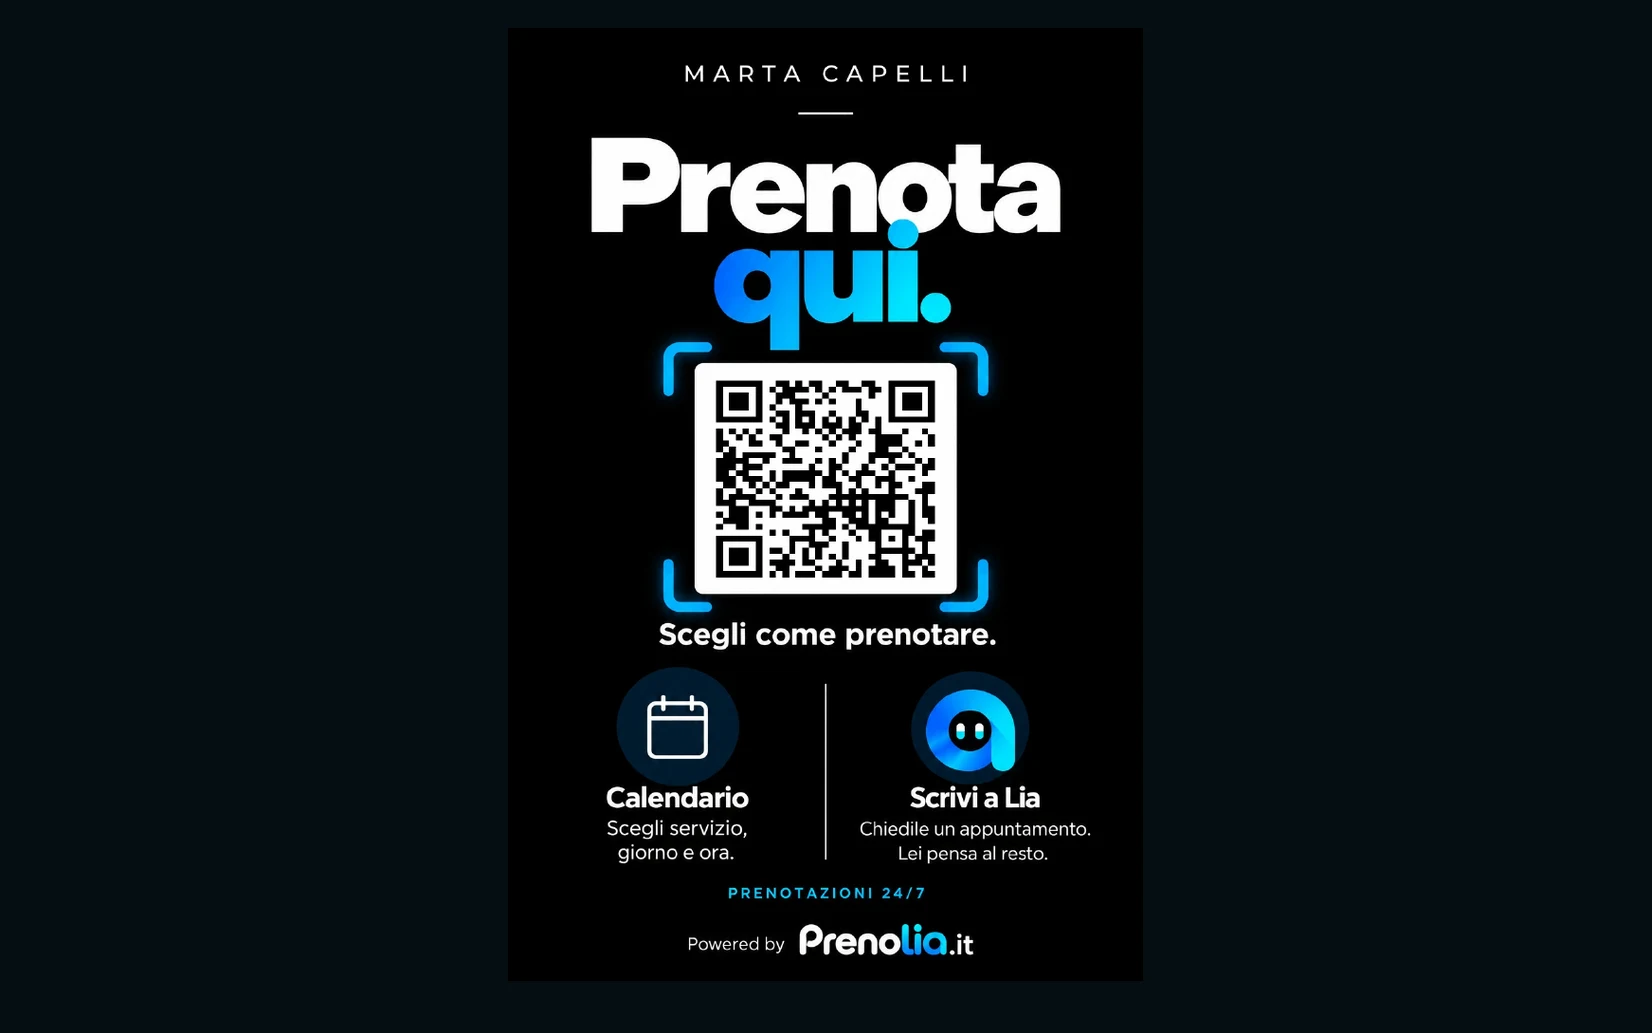
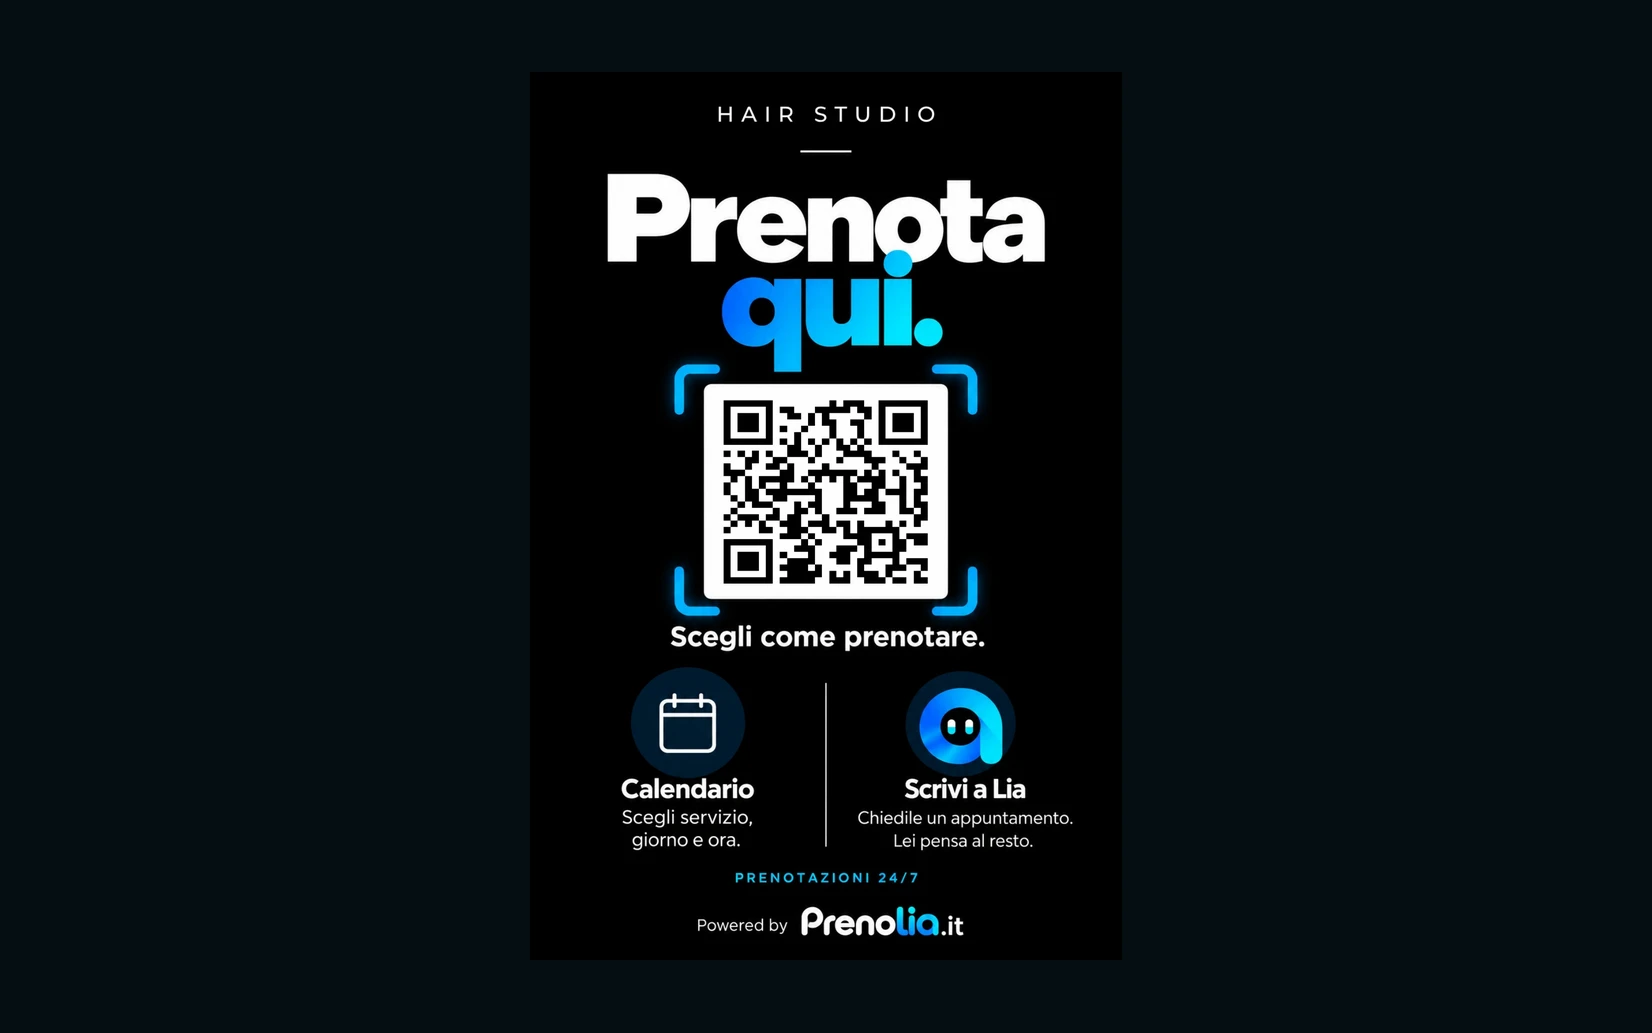
Tutorial: Hair Studio, sequenza desktop più fluida (QR in cima, menu, finestra, locandina), tocco visibile su smartphone
Claude-Session: https://claude.ai/code/session_01MPSQ5jCZct4PB5C3Pt8sNX

Changed region(s): [[0.3396, 0.1239, 0.6483, 0.9293], [0.4013, 0.062, 0.5866, 0.1239]]

diff --git a/public/provahtml/tutorial.html b/public/provahtml/tutorial.html
@@ -104,20 +104,21 @@
 @keyframes tupop{0%{transform:scale(.88)}60%{transform:scale(1.08)}100%{transform:none}}
 #tutorial .tu-ph{position:relative;width:100%;aspect-ratio:390/844;border-radius:24px;border:3px solid #0a1114;box-shadow:0 0 0 1px rgba(255,255,255,.18),0 40px 70px rgba(0,0,0,.7);background:#050608;overflow:hidden;container-type:inline-size}
 #tutorial .tu-ph img,#tutorial .tu-ph video,#tutorial .tu-scr img{position:absolute;inset:0;width:100%;height:100%;object-fit:cover;display:block}
-#tutorial img.f{opacity:0;transform:scale(1.07);transition:opacity .45s ease,transform .45s ease}
-#tutorial img.f.on{opacity:1;transform:none;transition:opacity .6s ease .1s,transform .6s ease .1s}
-#tutorial img.f.out{opacity:0;transform:scale(.95);transition:opacity .45s ease,transform .45s ease}
+#tutorial img.f{opacity:0;transform:none;z-index:0;transition:opacity .7s ease}
+#tutorial img.f.on{opacity:1;z-index:2;transition:opacity .7s ease}
+#tutorial img.f.out{opacity:1;z-index:1;transition:opacity 0s linear .75s}
 #tutorial .tu-br{border-radius:14px;border:1px solid #3a525a;background:#050608;overflow:hidden;box-shadow:0 0 0 1px rgba(255,255,255,.12),0 40px 70px rgba(0,0,0,.7)}
 #tutorial .tu-bar{display:flex;gap:6px;align-items:center;height:26px;padding:0 12px;background:#0d1a1f;border-bottom:1px solid #20363d}
 #tutorial .tu-bar i{width:9px;height:9px;border-radius:50%;background:#2a444c}
 #tutorial .tu-bar u{flex:1;margin-left:10px;height:15px;border-radius:8px;background:#13262c;max-width:260px;font:10px/15px system-ui;color:#6f8a91;text-decoration:none;padding:0 10px}
 #tutorial .tu-scr{position:relative;aspect-ratio:1280/800;container-type:inline-size;overflow:hidden}
-#tutorial .tu-cur{position:absolute;width:0;height:0;z-index:3;pointer-events:none}
-#tutorial .tu-cur b{display:block;position:absolute;left:-3.4cqw;top:-3.4cqw;width:6.8cqw;height:6.8cqw;border-radius:50%;border:1px solid rgba(156,235,235,.5);opacity:0}
-#tutorial .tu-cur i{position:absolute;left:-3.4cqw;top:-3.4cqw;width:6.8cqw;height:6.8cqw;border-radius:50%;background:radial-gradient(circle,rgba(255,255,255,.5) 0,rgba(156,235,235,.3) 38%,transparent 70%);opacity:0;transform:scale(0)}
+#tutorial .tu-cur{position:absolute;width:0;height:0;z-index:3;pointer-events:none;transition:left .9s cubic-bezier(.45,0,.2,1),top .9s cubic-bezier(.45,0,.2,1),opacity .3s}
+#tutorial .tu-cur b{display:block;position:absolute;left:-5.5cqw;top:-5.5cqw;width:11cqw;height:11cqw;border-radius:50%;border:2px solid rgba(156,235,235,.85);opacity:0}
+#tutorial .tu-cur i{position:absolute;left:-5.5cqw;top:-5.5cqw;width:11cqw;height:11cqw;border-radius:50%;background:radial-gradient(circle,rgba(255,255,255,.85) 0,rgba(156,235,235,.55) 40%,transparent 72%);opacity:0;transform:scale(0)}
+#tutorial .tu-ph .tu-cur::after{content:"";position:absolute;left:-1cqw;top:-1cqw;width:2cqw;height:2cqw;border-radius:50%;background:rgba(255,255,255,.6);box-shadow:0 0 0 1px rgba(5,14,18,.5)}
 #tutorial .tu-scr .tu-cur b,#tutorial .tu-scr .tu-cur i{left:-1.7cqw;top:-1.7cqw;width:3.4cqw;height:3.4cqw}
-#tutorial .tu-cur.tap i{animation:tutp .7s ease-out}#tutorial .tu-cur.tap b{animation:tutpr .7s ease-out}
-@keyframes tutp{0%{transform:scale(.5);opacity:0}20%{transform:scale(.8);opacity:.9}100%{transform:scale(1.4);opacity:0}}@keyframes tutpr{0%{transform:scale(.7);opacity:.6}100%{transform:scale(1.6);opacity:0}}
+#tutorial .tu-cur.tap i{animation:tutp .9s ease-out}#tutorial .tu-cur.tap b{animation:tutpr .9s ease-out}
+@keyframes tutp{0%{transform:scale(.4);opacity:0}25%{transform:scale(.8);opacity:1}100%{transform:scale(1.3);opacity:0}}@keyframes tutpr{0%{transform:scale(.6);opacity:.9}100%{transform:scale(1.5);opacity:0}}
 #tutorial .tu-one{width:min(260px,70%);margin:0 auto;opacity:0;transform:translateY(34px) scale(.95);transition:opacity .6s ease,transform .85s cubic-bezier(.2,.9,.3,1.08)}
 #tutorial .tu-one.dsk{width:100%}#tutorial .tu-one.show{opacity:1;transform:none}
 #tutorial .tu-tag{margin:14px 0 0}#tutorial .tu-tag span{display:inline-block;padding:7px 13px;border:1px solid var(--tl);border-radius:999px;font-size:13px;color:var(--tm)}#tutorial .tu-tag b{color:#F2F6F7}
@@ -691,7 +692,7 @@ var SEC=[
 {id:'domicilio',n:'Servizi a domicilio',e:'Ripetizioni, idraulici, elettricisti',ic:'<path d="M3 11l9-8 9 8v9a1 1 0 0 1-1 1h-4.5v-6h-7v6H4a1 1 0 0 1-1-1z"/>'},
 {id:'personal',n:'Personal trainer',e:'Coaching e pacchetti di ingressi',ic:'<path d="M2 12h1"/><path d="M6 8H4a1 1 0 0 0-1 1v6a1 1 0 0 0 1 1h2"/><path d="M6 7v10a1 1 0 0 0 1 1h1a1 1 0 0 0 1-1V7a1 1 0 0 0-1-1H7a1 1 0 0 0-1 1z"/><path d="M9 12h6"/><path d="M15 7v10a1 1 0 0 0 1 1h1a1 1 0 0 0 1-1V7a1 1 0 0 0-1-1h-1a1 1 0 0 0-1 1z"/><path d="M18 8h2a1 1 0 0 1 1 1v6a1 1 0 0 1-1 1h-2"/><path d="M22 12h-1"/>'}];
 var PP=[
-{dk:[['dt1',1087,35],['dt2',640,525],['dt2',640,588],['dt4',0,0,1]],l:'Come ti trovano',k:'Fatti trovare dai clienti',s:'Link, QR code e locandina in vetrina: un solo indirizzo, tanti modi per farlo arrivare ai tuoi clienti.',fr:[
+{dk:[['dt1',1087,35],['dt2',951,290],['dt3',640,525,1],['dt3',640,588],['dt4',0,0,1]],dkc:[['Il QR è sempre in cima','Un tocco sull\'icona in alto e si apre'],['Oppure dal menu','Apri il menu e scegli "QR e Link"'],['Tutto da una sola finestra','Il cliente inquadra il QR dallo schermo, oppure lo condividi con il link'],['Scarica la locandina','Hair Studio, pronta da stampare'],['Mettila in vetrina','Chi passa inquadra il QR e prenota']],l:'Come ti trovano',k:'Fatti trovare dai clienti',s:'Link, QR code e locandina in vetrina: un solo indirizzo, tanti modi per farlo arrivare ai tuoi clienti.',fr:[
  ['t1','Apri "QR e Link"','Dal menu, in un tocco',110,310],['t2','Il tuo link e il tuo QR code','Mandalo su WhatsApp, mettilo nella bio di Instagram o in un messaggio',195,654],['t2','Stampa la locandina','Il PDF è pronto da stampare',195,712],['t4','Mettila in vetrina','Chi passa inquadra il QR e prenota',0,0,1]]},
 {l:'Come prenotano',k:'I clienti prenotano, tu lo sai subito',s:'Da soli o in chat con Lia: stesso servizio, stesso orario. Poi la notifica arriva in agenda.'}];
 var CFS={"medico": {"dir": "medico/", "T": [25, 55, 85, 140, 190, 225, 250, 270], "reg": {"fr": [["r1", "Crea l'account", "Email, telefono e password", 195, 720], ["r2", "Scegli il settore", "Il tipo di attività decide le domande", 195, 809], ["r3", "Dai un nome allo studio", "Compare sulla pagina di prenotazione", 251, 809], ["r4", "Aggiungi i servizi", "Nome, durata e prezzo", 251, 809], ["r5", "Indica gli orari", "Giorni e orari in cui ricevi", 251, 809], ["r6", "Privacy dei pazienti", "Consenso e riservatezza già pensati per te", 251, 809], ["r7", "Imposta le regole", "Anticipo, preavviso e annullamenti", 251, 809], ["r8", "Controlla e apri l'agenda", "Tutto pronto", 251, 809]], "dk": [["d1", 960, 561], ["d2", 868, 676], ["d3", 924, 645], ["d4", 924, 641], ["d5", 924, 601], ["d6", 924, 646], ["d7", 924, 560], ["d8", 924, 760]]}, "sh": {"fr": [["menu", "Condividi il link", "Dal menu, con un tocco", 275, 174], ["qr", "Mostra il QR", "Il cliente inquadra e prenota", 195, 611], ["poster", "Stampa la locandina", "Pronta per vetrina o bancone", 195, 666]], "dk": [["dmenu", 1165, 174], ["dqr", 640, 589], ["dposter", 640, 635]]}, "book": {"s": "Il paziente sceglie giorno e orario dal calendario. Poi la notifica arriva in agenda.", "tag": "Esempio: <b>Prima visita · martedì 10 novembre, 12:30</b>", "note": "Lia, la segretaria virtuale, non è prevista per gli studi sanitari, per tutelare la privacy dei pazienti.", "cells": [["Il paziente", "self", "Sceglie visita, giorno e orario"], ["Il tuo calendario", "cal", "In attesa di prenotazioni"]], "cf": {"self": 9.55}}}, "domicilio": {"dir": "domicilio/", "T": [25, 55, 80, 110, 150, 185, 220, 250, 270], "reg": {"fr": [["r1", "Crea l'account", "Email, telefono e password", 195, 720], ["r2", "Scegli il settore", "Il tipo di attività decide le domande", 195, 809], ["r3", "Dai un nome all'attività", "Compare sulla pagina di prenotazione", 251, 809], ["r4", "Dove lavori", "A casa del cliente, online o nel tuo locale", 251, 809], ["r5", "Aggiungi i servizi", "Durata e un prezzo per ogni modalità", 251, 809], ["r6", "Indica le zone", "Le città in cui vai a domicilio", 251, 809], ["r7", "Indica gli orari", "Giorni e orari in cui ricevi", 251, 809], ["r8", "Imposta le regole", "Anticipo, preavviso, annullamenti e spostamenti", 251, 809], ["r9", "Controlla e apri l'agenda", "Tutto pronto", 251, 809]], "dk": [["d1", 960, 561], ["d2", 868, 676], ["d3", 924, 645], ["d4", 924, 564], ["d5", 924, 658], ["d6", 924, 537], ["d7", 924, 601], ["d8", 924, 593], ["d9", 924, 760]]}, "sh": {"fr": [["menu", "Condividi il link", "Dal menu, con un tocco", 275, 174], ["qr", "Mostra il QR", "Il cliente inquadra e prenota", 195, 611], ["poster", "Stampa la locandina", "Pronta per vetrina o bancone", 195, 666]], "dk": [["dmenu", 1165, 174], ["dqr", 640, 589], ["dposter", 640, 635]]}, "book": {"s": "Da soli o in chat con Lia: stesso servizio, stesso orario. Poi la notifica arriva in agenda.", "tag": "Stesso servizio per entrambi: <b>Lezione a domicilio · martedì 10 novembre, 16:00</b>", "note": "", "cells": [["Prenota da solo", "self", "Sceglie servizio, giorno e orario"], ["Chat con Lia", "chat", "Scrive a Lia come in chat"], ["Il tuo calendario", "cal", "In attesa di prenotazioni"]], "cf": {"self": 10.55, "chat": 10.49}}}, "sport": {"dir": "sport/", "T": [25, 55, 85, 110, 150, 190, 215, 240, 255, 270], "reg": {"fr": [["r1", "Crea l'account", "Email, telefono e password", 195, 720], ["r2", "Scegli il settore", "Il tipo di attività decide le domande", 195, 809], ["r3", "Dai un nome al centro", "Compare sulla pagina di prenotazione", 251, 809], ["r4", "Scegli lo sport", "Tennis, padel, calcio e altri", 251, 809], ["r5", "Inserisci i campi", "Superficie, durata e prezzo di ogni campo", 195, 583], ["r6", "Campi pronti", "Tutti salvati, uno alla volta", 251, 809], ["r7", "Indica gli orari", "Giorni e orari di apertura dei campi", 251, 809], ["r8", "Chi può prenotare", "Soci e non soci, oppure solo i soci", 251, 809], ["r9", "Imposta le regole", "Anticipo, preavviso e annullamenti", 251, 809], ["r10", "Controlla e apri l'agenda", "Tutto pronto", 251, 809]], "dk": [["d1", 960, 561], ["d2", 868, 676], ["d3", 924, 582], ["d4", 924, 501], ["d5", 868, 509], ["d6", 924, 528], ["d7", 924, 601], ["d8", 924, 593], ["d9", 924, 560], ["d10", 924, 760]]}, "sh": {"fr": [["menu", "Condividi il link", "Dal menu, con un tocco", 275, 174], ["qr", "Mostra il QR", "Il cliente inquadra e prenota", 195, 611], ["poster", "Stampa la locandina", "Pronta per vetrina o bancone", 195, 666]], "dk": [["dmenu", 1165, 174], ["dqr", 640, 589], ["dposter", 640, 635]]}, "book": {"s": "Da soli o in chat con Lia: stesso campo, stesso orario. Poi la notifica arriva in agenda.", "tag": "Stesso campo per entrambi: <b>Campo 2 · martedì 10 novembre, 18:00</b>", "note": "", "cells": [["Prenota da solo", "self", "Sceglie campo, giorno e orario"], ["Chat con Lia", "chat", "Scrive a Lia come in chat"], ["Il tuo calendario", "cal", "In attesa di prenotazioni"]], "cf": {"self": 15.45, "chat": 15.0}}}, "personal": {"dir": "personal/", "T": [25, 55, 85, 125, 170, 210, 235, 255, 270], "reg": {"fr": [["r1", "Crea l'account", "Email, telefono e password", 195, 720], ["r2", "Scegli il settore", "Il tipo di attività decide le domande", 195, 809], ["r3", "Dai un nome all'attività", "Compare sulla pagina di prenotazione", 251, 809], ["r4", "Scegli cosa offri", "Palestra oppure personal trainer", 251, 809], ["r5", "Aggiungi i pacchetti", "Ingressi, prezzo e durata del coaching", 251, 809], ["r6", "Indica gli orari", "Giorni e orari in cui ricevi", 251, 809], ["r7", "I tuoi iscritti", "Come prenotano con il loro codice", 251, 809], ["r8", "Imposta le regole", "Anticipo, preavviso e annullamenti", 251, 809], ["r9", "Controlla e apri l'agenda", "Tutto pronto", 251, 809]], "dk": [["d1", 960, 561], ["d2", 868, 676], ["d3", 924, 582], ["d4", 924, 580], ["d5", 924, 714], ["d6", 924, 586], ["d7", 924, 625], ["d8", 924, 560], ["d9", 924, 760]]}, "sh": {"fr": [["menu", "Condividi il link", "Dal menu, con un tocco", 286, 174], ["qr", "Mostra il QR", "L'iscritto inquadra e prenota", 207, 623], ["poster", "Stampa la locandina", "Pronta per vetrina o palestra", 208, 666]], "dk": [["dmenu", 1176, 174], ["dqr", 652, 601], ["dposter", 654, 635]], "k": "Fatti trovare dai tuoi iscritti"}, "book": {"s": "L'iscritto entra con il suo codice e prenota da solo, oppure scrive a Lia in chat. Poi la notifica arriva in agenda.", "tag": "Stesso coaching per entrambi: <b>giovedì 12 novembre, 18:00</b>", "note": "", "cells": [["Prenota da solo", "self", "Entra con il codice e sceglie giorno e ora"], ["Chat con Lia", "chat", "Scrive a Lia come in chat"], ["Il tuo calendario", "cal", "In attesa di prenotazioni"]], "cf": {"self": 18.25, "chat": 19.75}, "c1": 1800, "c2": 9300, "cd": 12300, "k": "Gli iscritti prenotano, tu lo sai subito"}}};
@@ -707,18 +708,18 @@ function Sec(i){var p=P[i],IS=p.fr?1:2,TM=[],run=0,vids=[],box=document.createEl
  function stop(){TM.forEach(clearTimeout);TM=[];run++;vids.forEach(function(v){try{v.pause()}catch(e){}});vids=[]}
  function head(){DESK=MQ.matches;box.innerHTML='<div class="tu-split'+(IS==1?' rev':' wide')+(DESK&&p.dk&&IS!=1?' wide':'')+(DESK&&p.dk&&IS==1?' rev wide':'')+'"><div class="tu-tx"><div class="tu-kick"><b>0'+(i+1)+'</b><span>'+p.l+'</span></div><h3 class="tu-ttl">'+p.k+'</h3><p class="tu-sub">'+p.s+'</p></div><div class="tu-vis">'+(p.fr?'<div class="tu-sp'+(DESK&&p.dk?' dsk':'')+'"></div>':'')+'</div></div>'}
  function setLab(el,t,s){el.style.opacity=0;setTimeout(function(){el.innerHTML='<b>'+t+'</b><small>'+s+'</small>';el.style.opacity=1},200)}
- function frames(tok){var n=p.fr.length,D=2500,dk=DESK&&p.dk,W=dk?1280:390,H=dk?800:844;
-  var sp=box.querySelector('.tu-sp');if(sp)sp.remove();var keys=p.fr.map(function(f,j){return dk?p.dk[j][0]:f[0]}),xy=p.fr.map(function(f,j){return dk?[p.dk[j][1],p.dk[j][2]]:[f[3],f[4]]});
+ function frames(tok){var dk=DESK&&p.dk,FR=dk&&p.dkc?p.dkc:p.fr,n=(dk?p.dk:p.fr).length,D=2500,W=dk?1280:390,H=dk?800:844;
+  var sp=box.querySelector('.tu-sp');if(sp)sp.remove();var SRC=dk?p.dk:p.fr,keys=SRC.map(function(f,j){return dk?f[0]:f[0]}),xy=SRC.map(function(f,j){return dk?[f[1],f[2]]:[f[3],f[4]]});
   var im=keys.map(function(k){return '<img class="f" alt="" src="'+U(k)+'">'}).join('');
   box.querySelector('.tu-vis').insertAdjacentHTML('beforeend',dk?'<div class="tu-one dsk"><div class="tu-br"><div class="tu-bar"><i></i><i></i><i></i><u>prenolia.it</u></div><div class="tu-scr">'+im+'<div class="tu-cur"><b></b><i></i></div></div></div></div>':'<div class="tu-one"><div class="tu-ph">'+im+'<div class="tu-cur"><b></b><i></i></div></div></div>');
   var tx=box.querySelector('.tu-tx');
   tx.insertAdjacentHTML('beforeend','<div class="tu-lab"></div>'+(false?'<div class="tu-cr"><div class="big">0:00</div><small>tempo stimato per essere operativo</small></div>':''));
-  var NT=p.fr.map(function(f,j){return dk?!!p.dk[j][3]:!!f[5]});var one=box.querySelector('.tu-one'),imgs=[].slice.call(box.querySelectorAll('img.f')),cur=box.querySelector('.tu-cur'),lab=box.querySelector('.tu-lab'),cr=box.querySelector('.tu-cr'),cv=0;
+  var NT=SRC.map(function(f,j){return dk?!!f[3]:!!f[5]});var one=box.querySelector('.tu-one'),imgs=[].slice.call(box.querySelectorAll('img.f')),cur=box.querySelector('.tu-cur'),lab=box.querySelector('.tu-lab'),cr=box.querySelector('.tu-cr'),cv=0;
   function rend(s){box.querySelector('.big').textContent=Math.floor(s/60)+':'+('0'+s%60).slice(-2)}
   function tween(to,last){var from=cv,st=Date.now();(function f(){if(tok!==run)return;var q=Math.min(1,(Date.now()-st)/(D*.85));cv=from+(to-from)*(1-Math.pow(1-q,2));rend(Math.round(cv));if(q<1)requestAnimationFrame(f);else if(last){cr.classList.add('fin');cr.querySelector('small').textContent='Operativo! Tempo stimato: 4 minuti e mezzo'}})()}
-  after(80,function(){one.classList.add('show')},tok);
+  cur.style.opacity=0;cur.style.left=(xy[0][0]/W*100)+'%';cur.style.top=(xy[0][1]/H*100)+'%';after(80,function(){one.classList.add('show')},tok);
   function go(k){imgs.forEach(function(m,j){m.classList.remove('on','out');if(j===k)m.classList.add('on');else if(j===(k+n-1)%n&&k>0)m.classList.add('out')});
-   if(cr)tween(STEPT[k],k==n-1);setLab(lab,p.fr[k][1],p.fr[k][2]);cur.style.left=(xy[k][0]/W*100)+'%';cur.style.top=(xy[k][1]/H*100)+'%';cur.style.display=NT[k]?'none':''}
+   if(cr)tween(STEPT[k],k==n-1);setLab(lab,FR[k][dk&&p.dkc?0:1],FR[k][dk&&p.dkc?1:2]);if(!NT[k]){cur.style.left=(xy[k][0]/W*100)+'%';cur.style.top=(xy[k][1]/H*100)+'%'}cur.style.opacity=NT[k]?0:1}
   for(var k=0;k<n;k++)(function(k){after(500+k*D,function(){go(k)},tok);if(!NT[k])after(500+k*D+D-1050,function(){cur.classList.remove('tap');void cur.offsetWidth;cur.classList.add('tap')},tok)})(k);
   after(500+n*D+700,function(){start()},tok)}
  function book(tok){var K=BKC;
